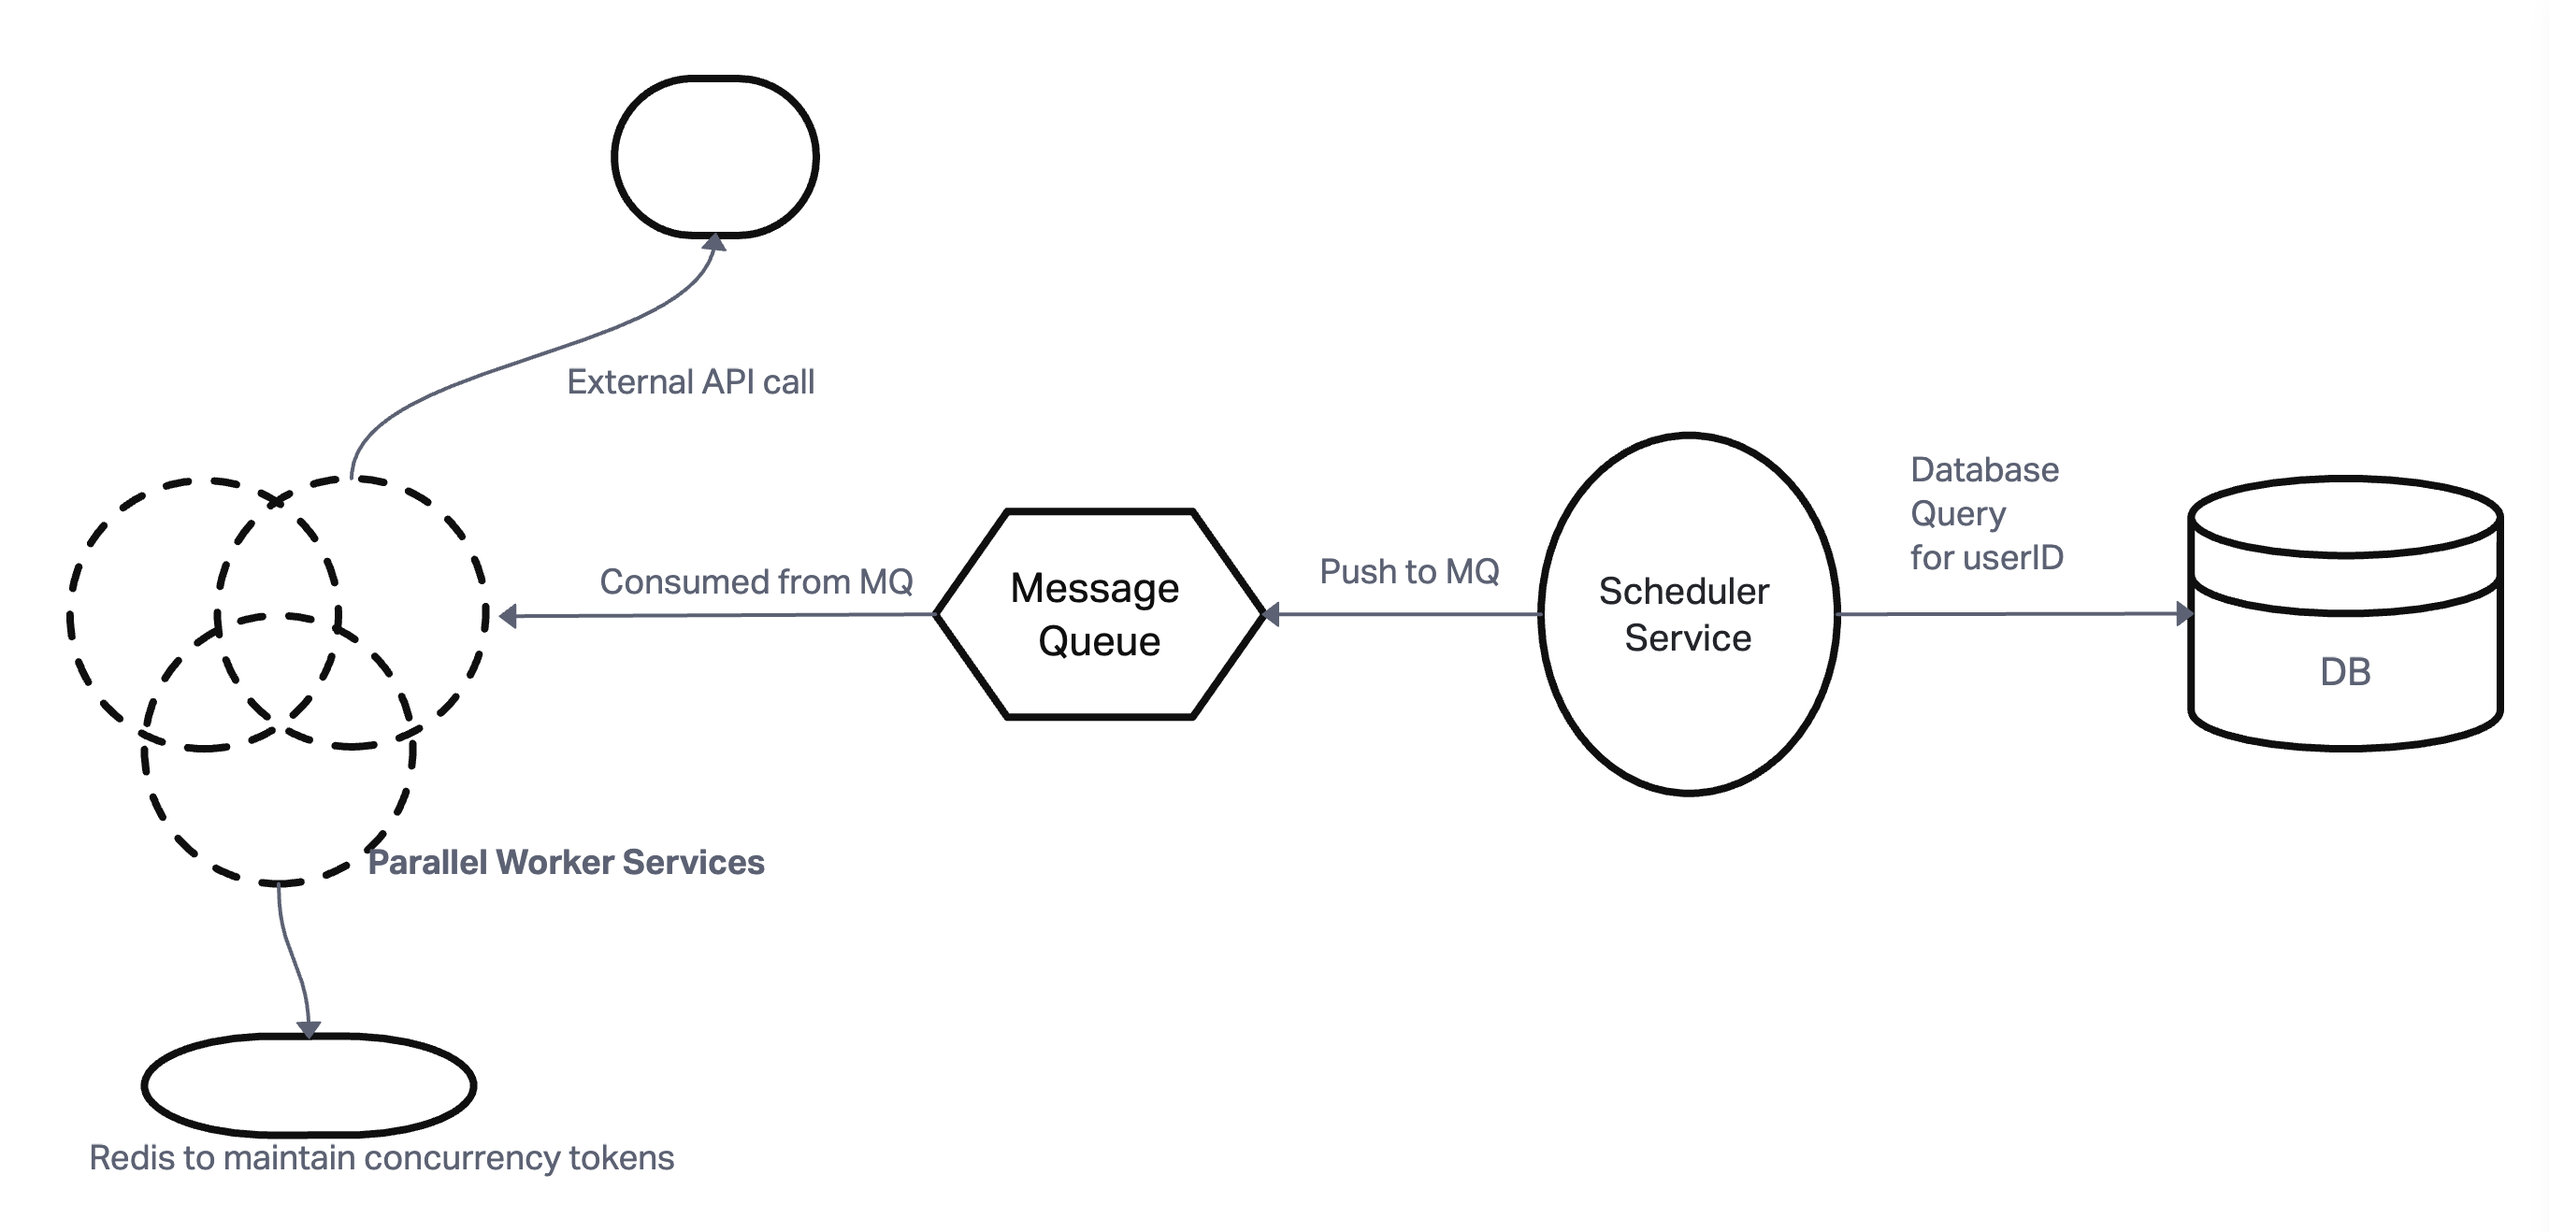
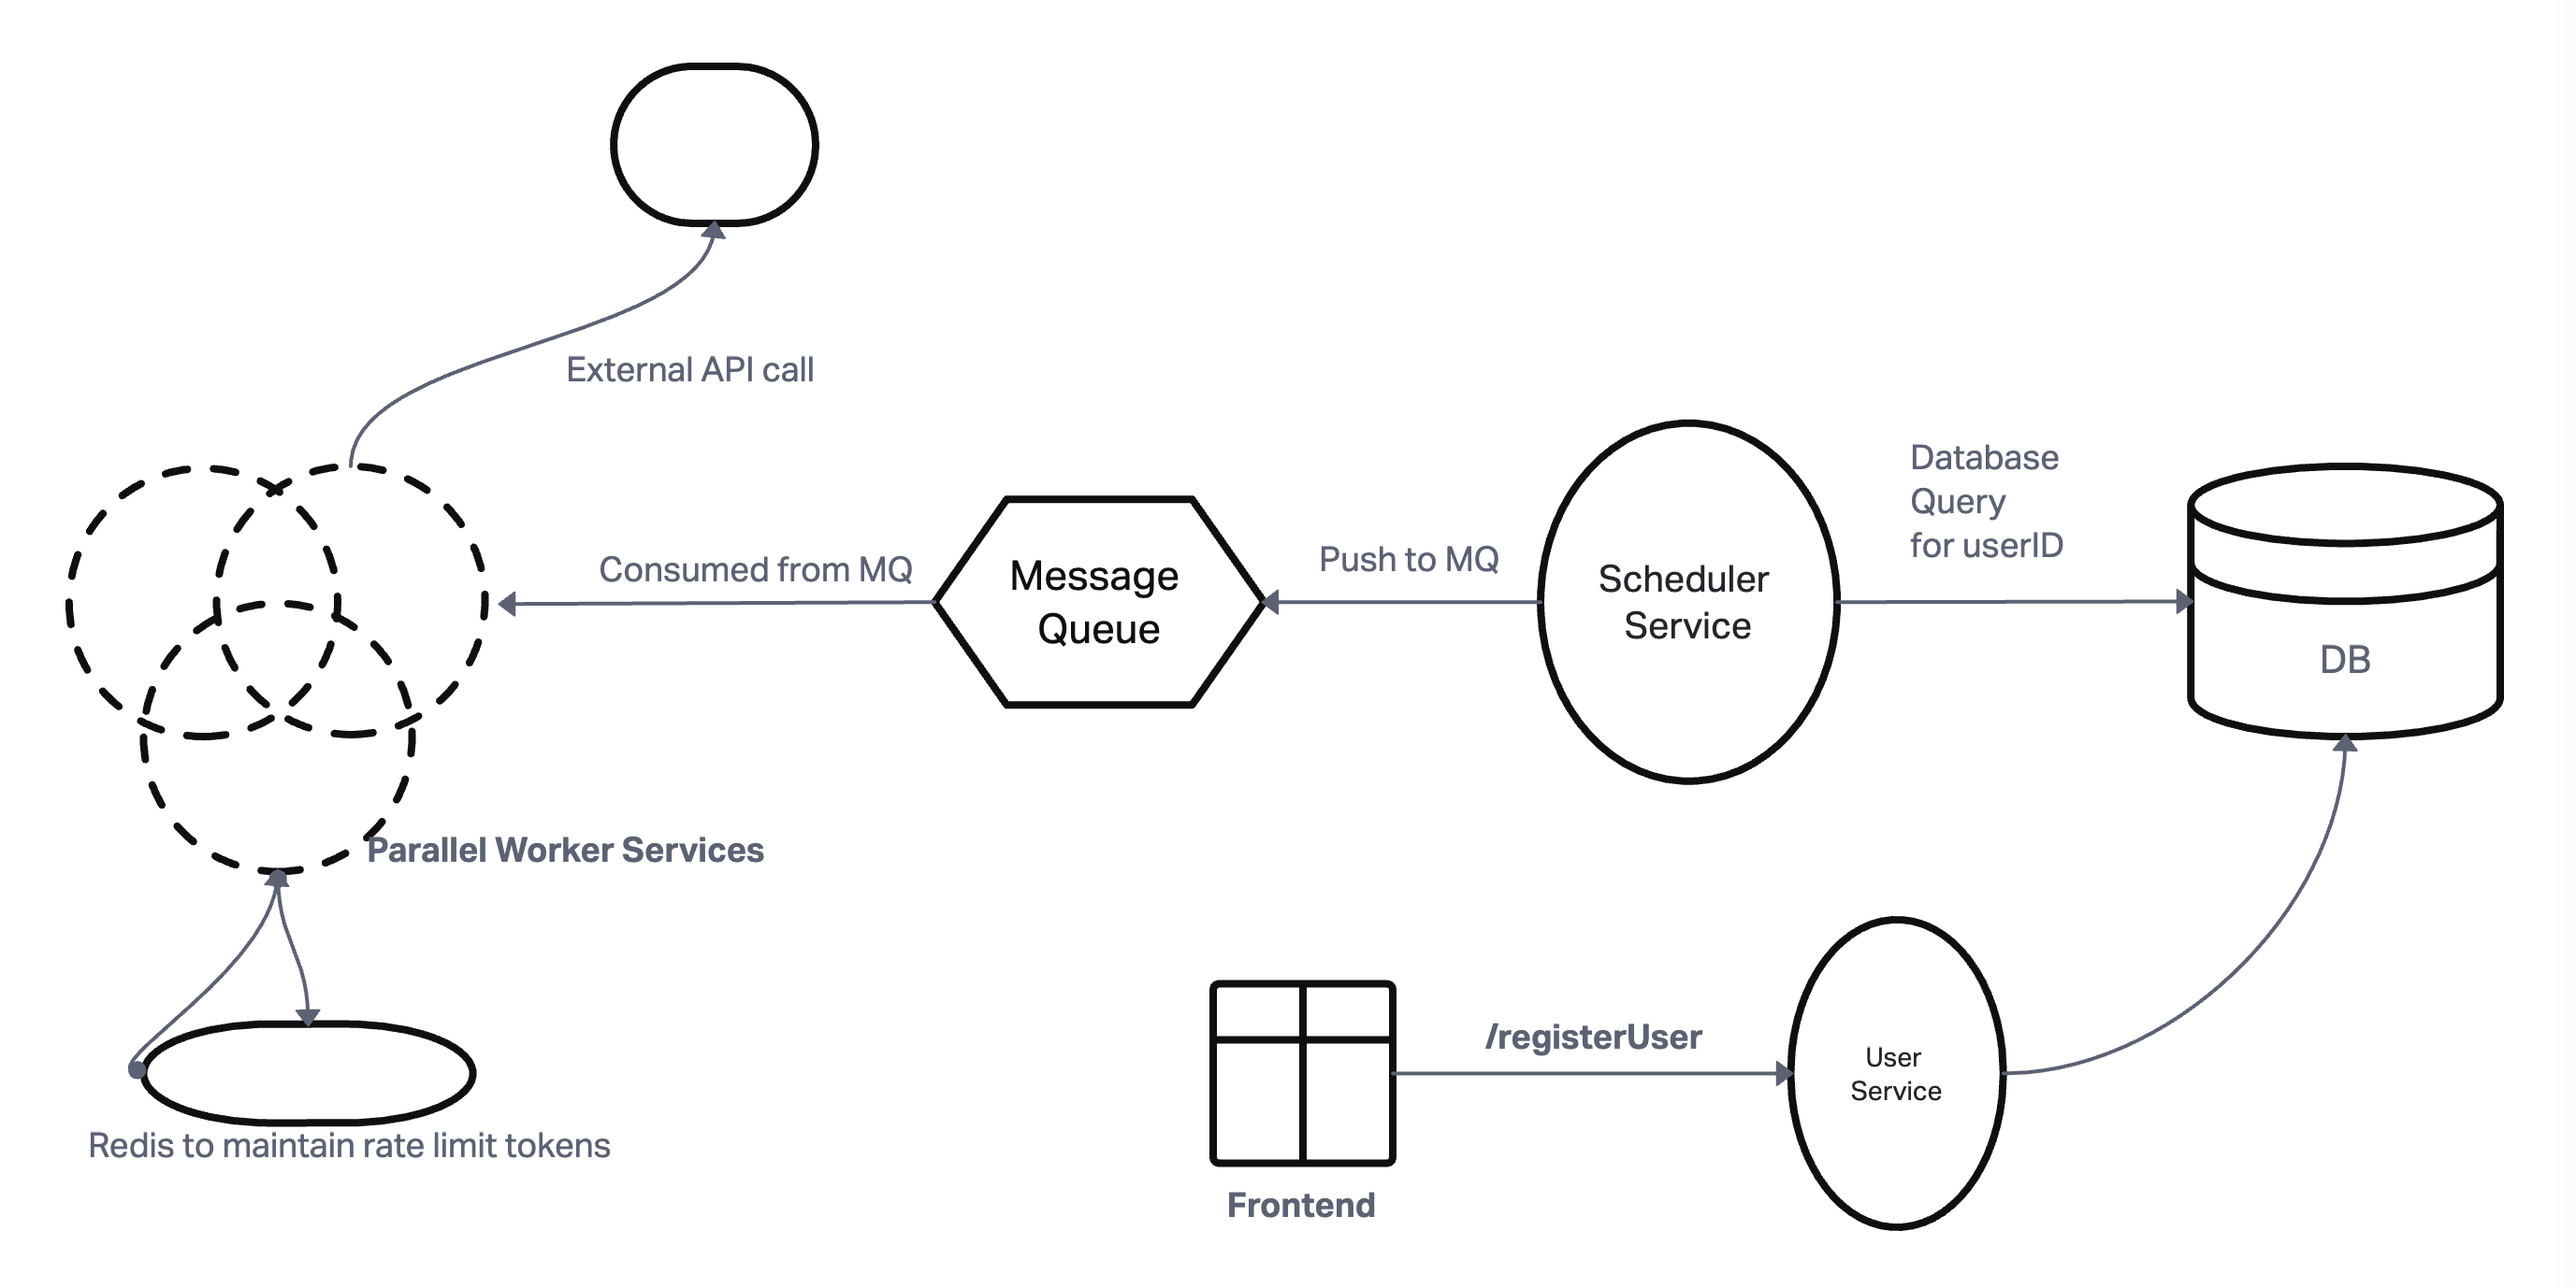
modified to use rate limit instaed of concurrency control

diff --git a/README.md b/README.md
@@ -7,26 +7,25 @@
 
 * `Scheduler Service`: Identifies users with scheduled SIP transactions for the day and enqueues tasks.
 
-* `Message Queue (Task Queue)`: Stores user IDs as tasks to be processed by worker services.
+* `Message Queue (Task Queue)`: Acts as buffer between scheduler and workers. Stores user IDs as tasks to be processed by worker services.
 
 * `Worker Services`: Processes tasks by calling the external API. There are replicas of these service to do concurrent API calls to external API and execute transaction
 
+* `Rate Limiter`: For worker instances that coordinates across all worker Services to prevent exceeding the API rate limit threshold
+
 ## Flow
-1. User interacts with the UI to register and set investment preferences.
-2. User Service stores user's data and his investment preference in the database.
+1. User interacts with the UI to register and set his SIP preferences.
+2. User Service stores user's data and his SIP preference in the database.
 2. The Scheduler Service runs at a scheduled time and fetches all user IDs with SIP transactions scheduled for that day.
 3. It enqueues these user IDs as tasks into the Message Queue.
 4. Worker Services continuously poll the Message Queue for new tasks.
-5. Upon receiving a task, a worker checks the Concurrency Control Mechanism to obtain permission to proceed.
-* Concurrency Management:
-  The worker attempts to acquire a token from the *global concurrency limiter* and If successful, it proceeds to call the external API; otherwise, it waits or processes other tasks. The system must not exceed 10,000 concurrent requests to the external API.
-  - A central pool of tokens (10,000 tokens representing the concurrency limit) is maintained in Redis.
-  - Before a worker makes a call to the external API, it must acquire a token from the pool.
-  - This ensures that the total number of concurrent API calls across all workers does not exceed 10,000.
-  - After the API call is completed (success or failure), the worker releases the token back to the pool, making it available for other workers.
+5. Upon receiving a task, a worker checks the Rate Limit Mechanism to obtain permission to proceed.
+* Rate Limit Management:
+  The worker attempts to acquire a token from the *global rate limiter* and If successful, it proceeds to call the external API; otherwise, it waits and retries after a short delay. The system must not exceed 5000 RPS to the external API.
+  - We can use **Token Bucket Algorithm** here. The bucket in redis holds a maximum of 5000 tokens, refilling the buket at 5000 tokens per second. 
 
 6. If the API call fails, the worker retries according to the defined Retry Mechanism.
-And we maintain a `max_retries` count and if retry count exceeds that we move the message to the queue again, in a different topic to process it separately. So basically, message queue can act as Dead leter queue as well.
+And we maintain a `max_retries` count and if retry count exceeds that we move the message back to the queue again, in a different topic to process it separately. So basically, message queue can act as Dead leter queue as well.
 
 
 ## Component Breakdown
@@ -37,14 +36,14 @@ And we maintain a `max_retries` count and if retry count exceeds that we move th
 * Queries the database for users with SIP transactions scheduled for the current day.
 * Enqueues user IDs into the message queue for processing.
 
-Here the challenge is `Volume of Data` to query millions of records efficiently:
+Here the challenge is *Volume of Data* to query millions of records efficiently:
 
 * To do that, I'll do **Batch Processing** i.e. instead of fetching all records at once, process them in batches using LIMIT and OFFSET 
-For example, consider a batch size of `10000`
+For example, consider a batch size of `5000`
 
 ```sql
-SELECT user_id FROM users_sip WHERE scheduled_date = 'YYYY-MM-DD' LIMIT 10000 OFFSET 0;
-SELECT user_id FROM users_sip WHERE scheduled_date = 'YYYY-MM-DD' LIMIT 10000 OFFSET 10000;
+SELECT user_id FROM users_sip WHERE scheduled_date = 'YYYY-MM-DD' LIMIT 5000 OFFSET 0;
+SELECT user_id FROM users_sip WHERE scheduled_date = 'YYYY-MM-DD' LIMIT 5000 OFFSET 5000;
 -- Continue until all records are fetched.
 ```
 
@@ -54,7 +53,7 @@ SELECT user_id FROM users_sip WHERE scheduled_date = 'YYYY-MM-DD' LIMIT 10000 OF
 ```python
 total_records = get_total_records() # SELECT COUNT(*) FROM users_sip WHERE scheduled_date = 'YYYY-MM-DD'
 
-batch_size = 10000
+batch_size = 5000
 offset = 0
 
 messages = []
@@ -70,8 +69,6 @@ while offset < total_records:
 
 ### 2. Message Queue (Task Queue)
 
-* There has to be a buffer between the scheduler and worker services to support high throughput. This MQ will take that place.
-
 * Each message in the queue represents a task to process a user's SIP transaction, something like:
 ```json
 {
@@ -84,49 +81,56 @@ while offset < total_records:
 
 * All it has to do is that, consume tasks from the message queue and call the external API with `userID` query parameter to perform the transaction.
 
-* Challenge here is to implement concurrency control to respect the 10,000 concurrent requests limit. We deal it with concurrency tokens maintained in Redis as mentioned in `Flow` section of this README
+* Challenge here is to implement rate limiting control to respect the 5000 RPS limit. We deal it with tokens maintained in Redis as mentioned in `Flow` section of this README
 
 * And when dealing with APIs, most importnat part is **handling errors, and retries.**
 
 * For Retry Logic: we as mentioned earlier, we maintain maximum number of retries before logging the error if something unrequired happens, this can be done by pushing errored transactions back to the Queue; a dead letter queue to be precise. For example a different `error_topic` in Kafka
 
-* And we will monitor and process the dead-letter queue separately.
+* But when dealing with retries, Idempotency also needs to be considered to ensure that retrying a transaction does not result in duplicate processing.
+For that we can use unique transaction IDs or check transaction status before execution.
 
-
-
-
-
-
-
-
-
+* And for error handling, we will monitor and process the dead-letter queue separately.
 
 
 ## Implementation Details:
 
-1. `Scheduler Service`
+1. `User Sevice`
+It can be a simple node server, listening to /registerUser endpoint route using express. 
 
-* Language: Python or Golang
+
+2. `Scheduler Service`
+
+* Language: Again TypeScript can be used to easily implement this.
 
 * Scheduling Mechanism: Use a cron job or cloud-based scheduler like AWS CloudWatch Events
 
 
-
-2. `Message Queue` 
+3. `Message Queue` 
 
 * Kafka: Suitable for high throughput and scalability.
-Configured with appropriate retention timeouts and error_topic for failed messages.
+Configured with appropriate retention timeouts and `error_topic` for failed messages.
 
-3. `Worker Service`
+4. `Worker Service`
 
 * Language: Go due to its excellent concurrency model. We can use goroutines to handle multiple tasks concurrently within a worker instance. 
 
-* i'LL mplement retries with exponential backoff.
-
-* One important thing is Idempotency in worker i.e. to ensure that retrying a transaction does not result in duplicate processing.
-For that we can use unique transaction IDs or check transaction status before execution.
+5. `Rate Limiter`
+*  Redis: for high Performance and low Latency
 
 
 
 
+## Assumptions
+System is running on AWS and Workers are running as part of an Auto scaling group which scales based on the user base custom metric.
+We are using AWS Cloudwatch events to scheudle the schduler service which can run in a serverless environment in Lambda.
 
+
+## Trade-off Analysis
+
+1. Latency vs. Throughput:
+
+Trade-off: Implementing rate limiting may introduce slight delays in processing investments due to queuing.
+
+2. Cost vs. Performance:
+Trade-off: Using managed cloud services and auto-scaling can increase operational costs.
